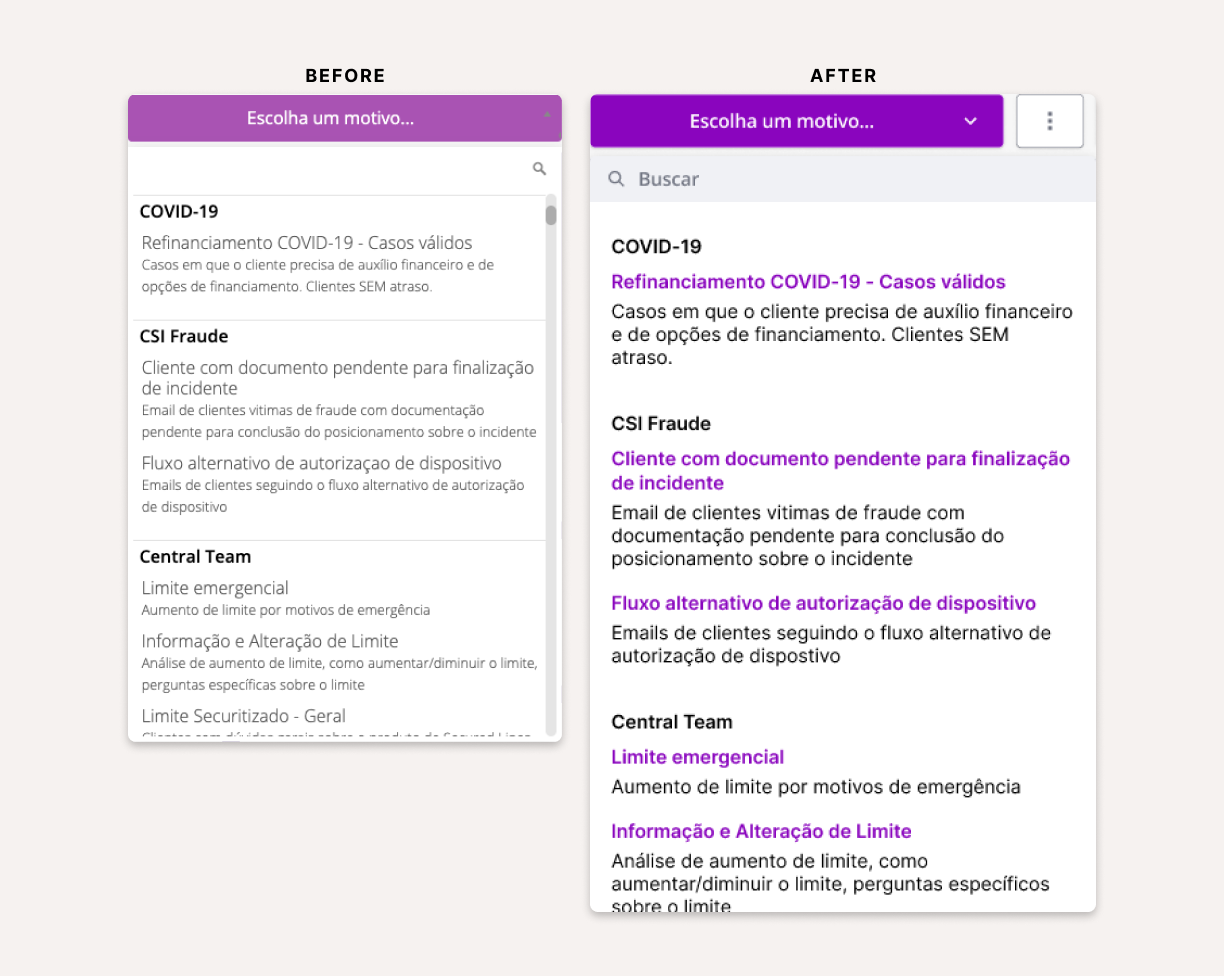
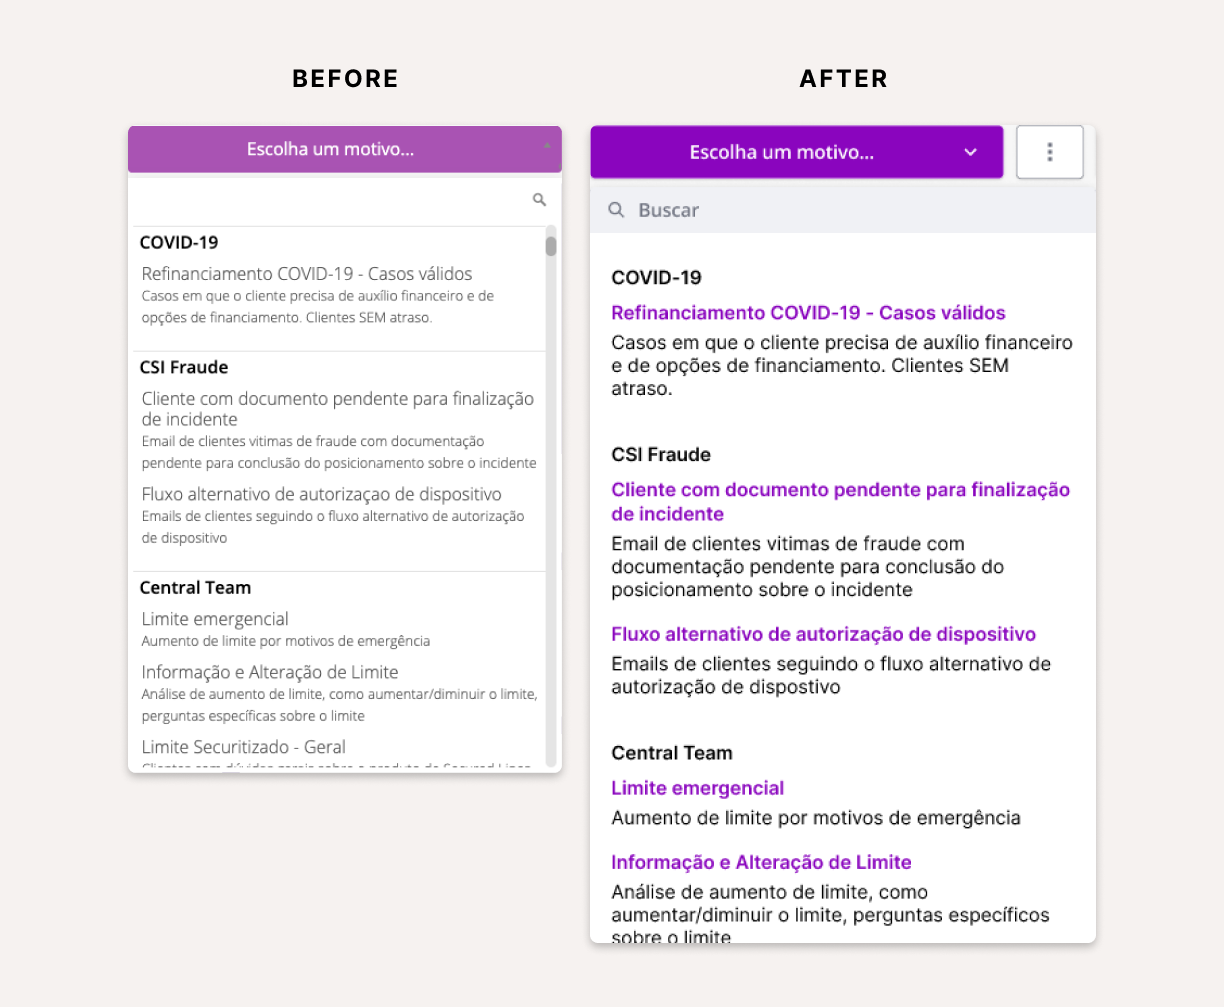
Added contact reason redesign

diff --git a/src/pages/.shuffle/index.md b/src/pages/.shuffle/index.md
@@ -116,6 +116,11 @@ While we invested in in-depth Discovery to investigate more significant issues, 
 ```
 
 * **Typography update**: moving from Open Sans to Inter, we increased the legibility of small text due to it being more optimized for screens. It also reduced screen real-estate usage due to its taller x-height, which works better for high-density designs.
+
+```grid|1
+![](./contactreason.png "The Contact Reason Dropdown was a crucial part of the Shuffle UI and was a great "low-hanging fruit". The original version had serious legibility issues, so we quickly redesigned it and added keyboard shortcuts to improve agents' speed when doing this mandatory step.")
+```
+
 * **New keyboard shortcuts**: Essential for those who work with professional tools, they were not reliable due to bugs and we identified opportunities for new ones. One example was that there was a shortcut for concluding a job but not for choosing the contact reason from a dropdown menu, which had to be done with the mouse cursor.
 * **Dark mode**: an experimental "mod" I coded myself with just CSS and a Chrome Plugin.
 
